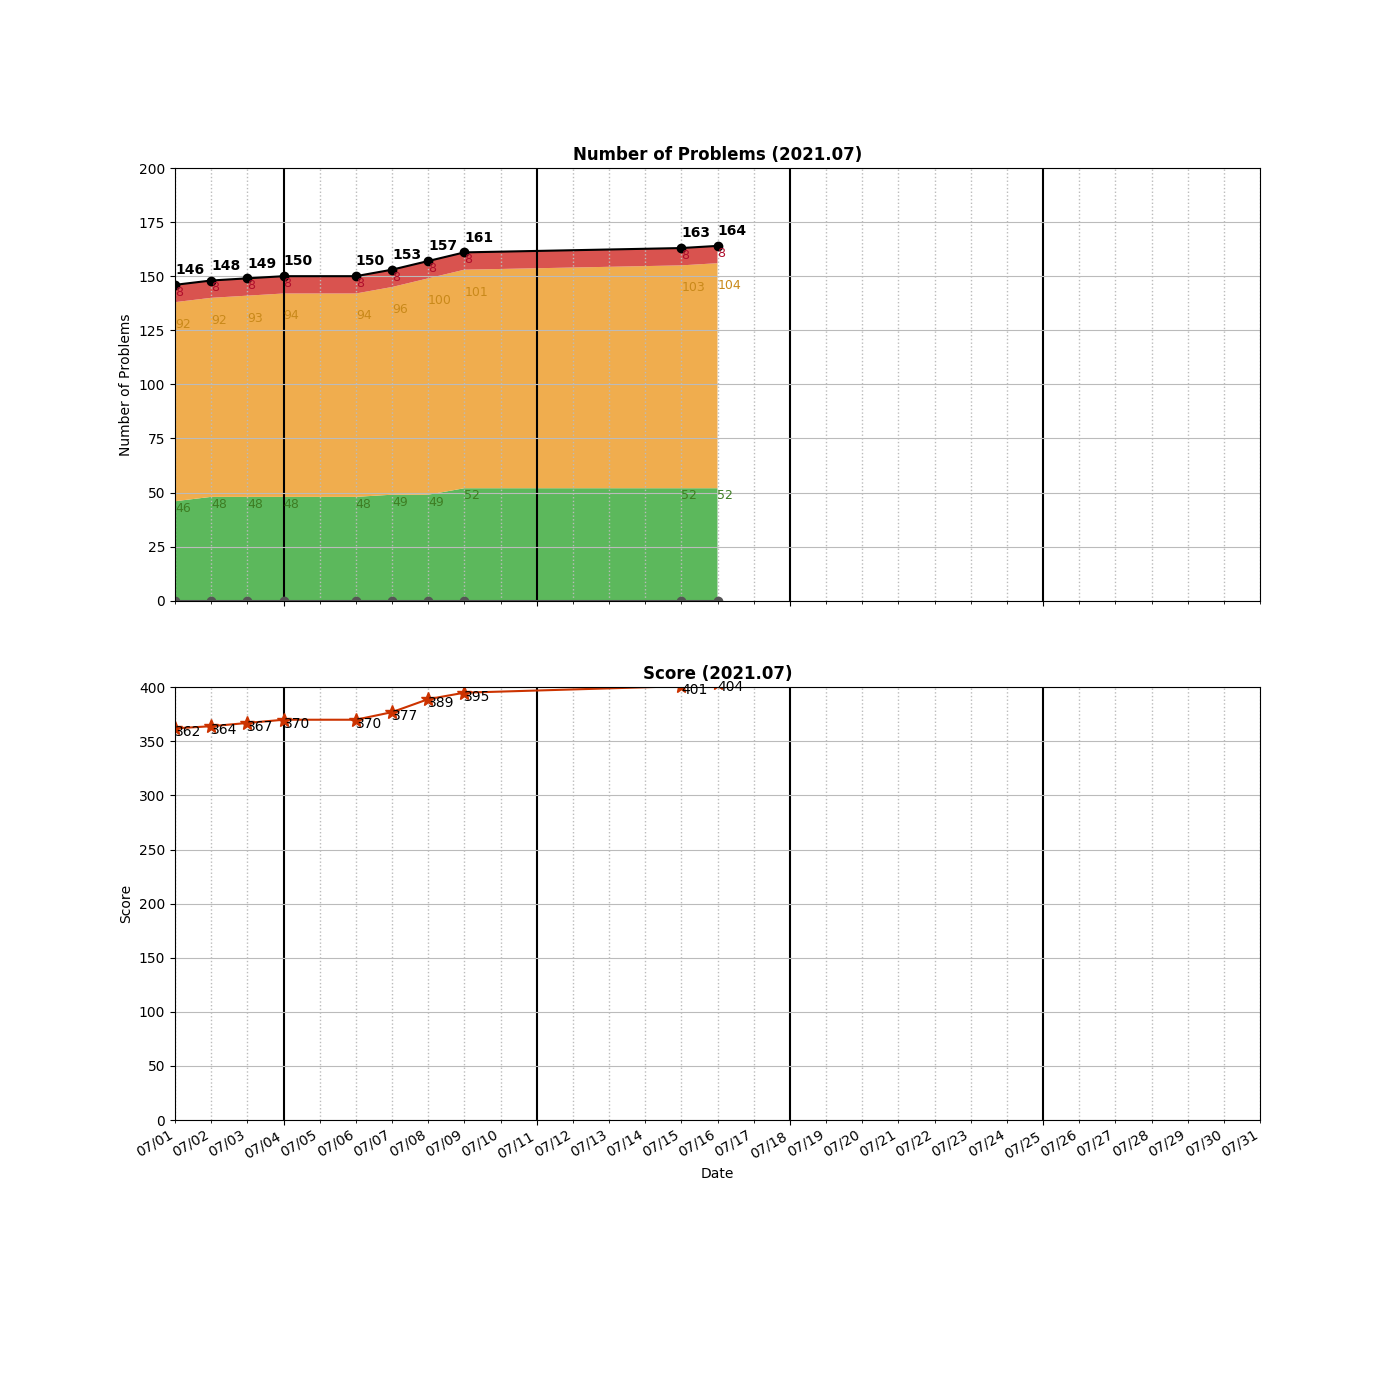
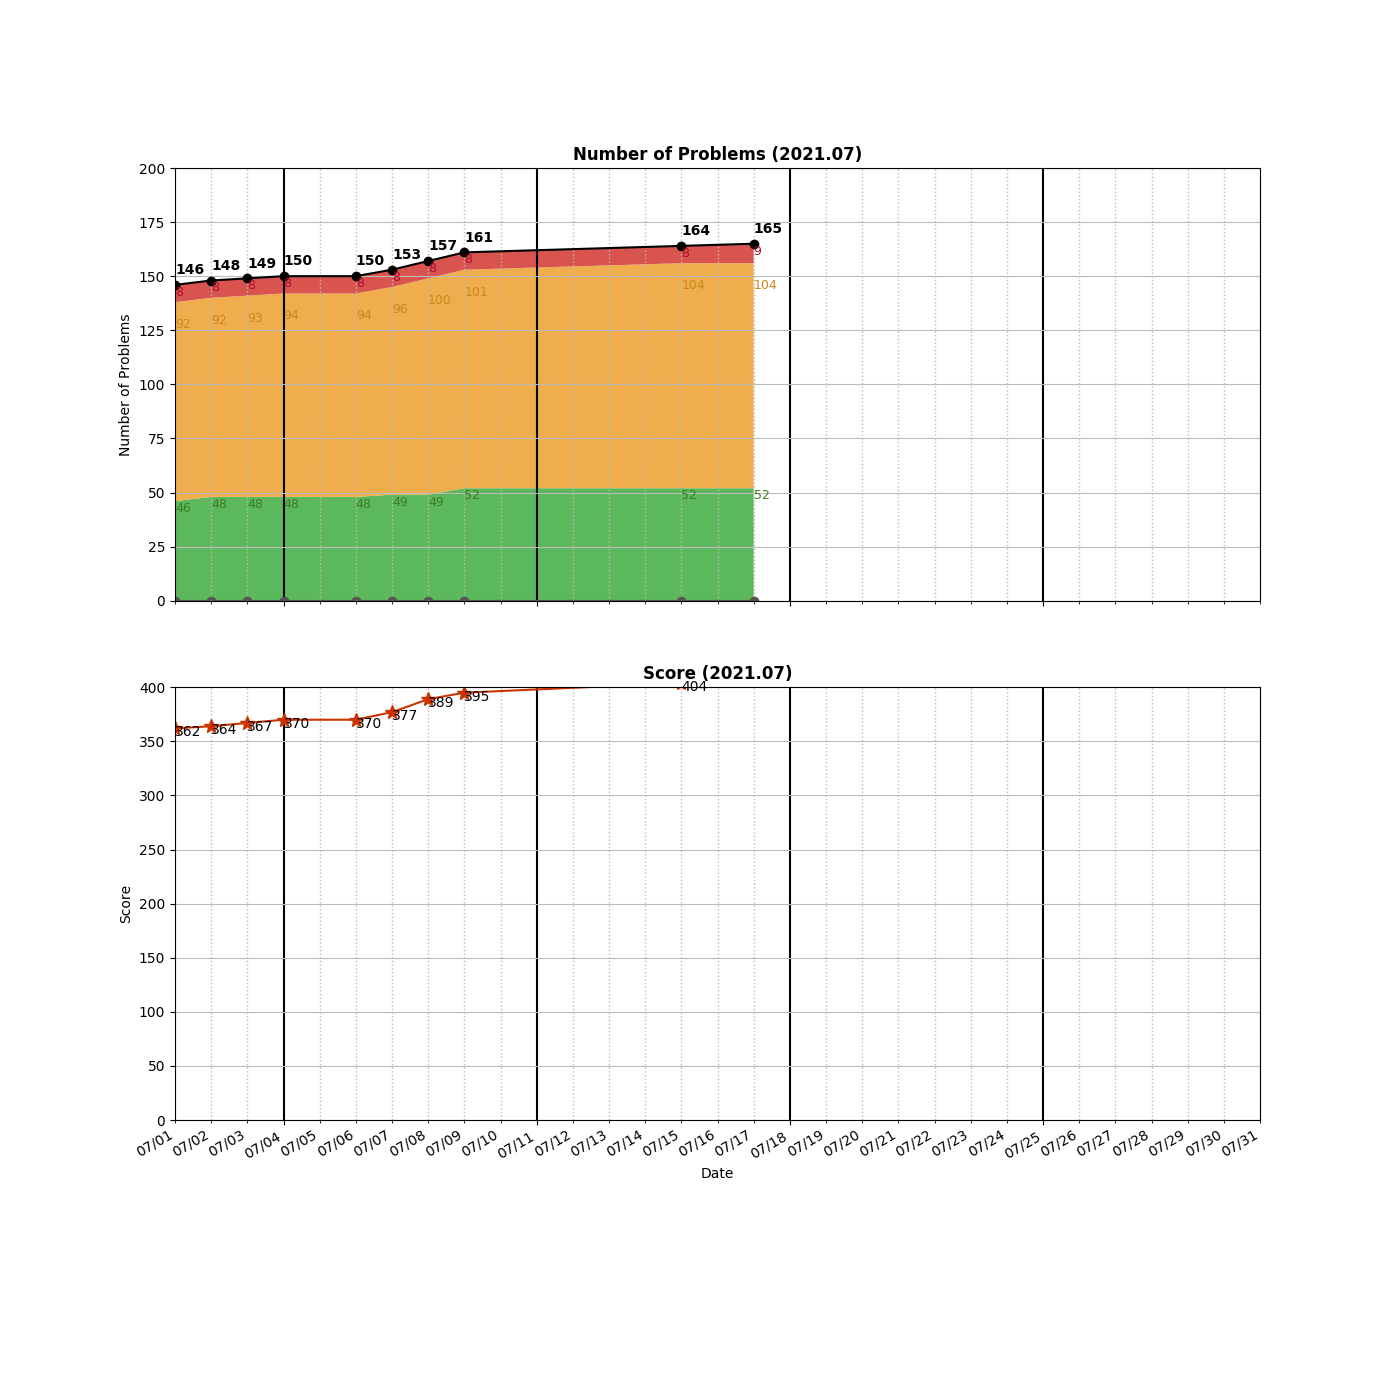
Added __0023__Merge k Sorted Lists.py

Changed region(s): [[0.43, 0.1536, 0.5529, 0.43]]

diff --git a/algo/LinkedList/__0023__Merge k Sorted Lists.py b/algo/LinkedList/__0023__Merge k Sorted Lists.py
@@ -1,0 +1,63 @@
+# Definition for singly-linked list.
+# class ListNode:
+#     def __init__(self, val=0, next=None):
+#         self.val = val
+#         self.next = next
+import heapq
+class Solution:
+    
+    #WIP 
+    def mergeKLists(self, lists: List[ListNode]) -> ListNode:
+        if not lists:
+            return None
+        res = ListNode(0)
+        p1 = res
+        
+        hq = []
+        for head in lists:
+            heapq.heappush(hq, [head.val, head])   #val, node
+        
+        numOfEnded = 0
+        while numOfEnded < len(lists): 
+            _, node = heapq.heappop(hq)
+            p1.next = node
+            p1 = p1.next
+            if node.next:
+                node = node.next
+                heapq.heappush(hq, [node.val, node])
+            else:
+                numOfEnded += 1
+        return res.next
+            
+    # ================================================
+            
+    # Merge lists one by one [O(kN): 7%]
+    def mergeKLists1(self, lists: List[ListNode]) -> ListNode:
+        print("Merge lists one by one")
+        if not lists:
+            return None
+        
+        result = lists[0]
+        for i in range(1, len(lists)):
+            result = self.merge(result, lists[i])
+        return result
+    
+    def merge(self, list1, list2):
+        p1 = list1
+        p2 = list2 
+        res = ListNode(0)
+        p3 = res
+        while p1 and p2: 
+            if p1.val <= p2.val:
+                p3.next = p1
+                p1 = p1.next
+                p3 = p3.next
+            else:
+                p3.next = p2
+                p2 = p2.next
+                p3 = p3.next
+        if p1:
+            p3.next = p1
+        if p2:
+            p3.next = p2
+        return res.next

diff --git a/README.md b/README.md
@@ -112,6 +112,7 @@ algo
 ├── LinkedList
 │   ├── __0002__Add\ Two\ Numbers.py
 │   ├── __0021__Merge\ Two\ Sorted\ Lists.py
+│   ├── __0023__Merge\ k\ Sorted\ Lists.py
 │   ├── __0083__Remove\ Duplicates\ from\ Sorted\ List.py
 │   ├── __0086__Partition\ List.py
 │   ├── __0092__Reverse\ Linked\ List\ II.py
@@ -191,7 +192,7 @@ algo
         ├── LinkedList.cpython-37.pyc
         └── UnrolledLinkedList.cpython-37.pyc
 
-20 directories, 170 files
+20 directories, 171 files
 
 =====================================
 ============= Local Repo ============
@@ -209,6 +210,7 @@ __0018__4Sum.py
 __0020__Valid Parentheses.py
 __0021__Merge Two Sorted Lists.py
 __0022__Generate Parentheses.py
+__0023__Merge k Sorted Lists.py
 __0033__Search in Rotated Sorted Array.py
 __0034__Find First and Last Position of Element in Sorted Array.py
 __0037__Sudoku Solver.py
@@ -358,7 +360,7 @@ __1429__First Unique Number.py
 __1593__Split a String Into the Max Number of Unique Substrings.py
 __1905__Count Sub Islands.py
 =====================================
-Num of Python Practice:  161
+Num of Python Practice:  162
 
 
 =====================================
@@ -377,6 +379,7 @@ Num of Python Practice:  161
  0020 Valid Parentheses
  0021 Merge Two Sorted Lists
  0022 Generate Parentheses
+ 0023 Merge k Sorted Lists
  0033 Search in Rotated Sorted Array
  0034 Find First and Last Position of Element in Sorted Array
  0036 Valid Sudoku
@@ -529,11 +532,11 @@ Num of Python Practice:  161
  1593 Split a String Into the Max Number of Unique Substrings
  1905 Count Sub Islands
 =====================================
-Solved / Total (Easy)  :   52 /  506
-Solved / Total (Medium):  104 / 1018
-Solved / Total (Hard)  :    8 /  409
-Solved / Total (All)   :  164 / 1933
-Total Score            :  404
+Solved / Total (Easy)  :   52 /  505
+Solved / Total (Medium):  104 / 1020
+Solved / Total (Hard)  :    9 /  409
+Solved / Total (All)   :  165 / 1934
+Total Score            :  409
 =====================================
 
 ```
